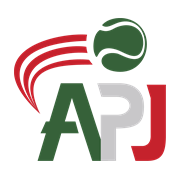
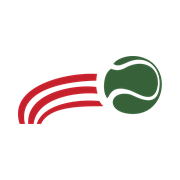
Usar isotipo en la barra: el lockup completo no se lee a 30px
El logotipo oficial es un lockup de proporcion casi cuadrada (809x761) que
mete trazos, pelota y la palabra APJ. En la cabecera se mostraba a 32px de
alto, asi que las letras quedaban de ~14px y se empastaban; la P, en gris
claro, casi desaparecia sobre blanco. Ademas repetia el nombre que ya pone
el texto de al lado.

Se agrega img/apj_isotipo.png: la pelota y los trazos de velocidad,
recortados del archivo oficial sin redibujar nada. Va en la barra de todas
las paginas y en el panel admin, acompanado del texto "APJ Padel". La marca
completa se queda donde tiene sitio para lucirse: hero, portadas de
documentos, pagina de descarga y las tarjetas de torneo sin flyer.

El favicon y el icono de pantalla de inicio tambien pasan al isotipo, por el
mismo motivo de legibilidad a tamano pequeno.

Ajustes de barra en pantallas estrechas: por debajo de 440px se oculta el
nombre y se encogen icono, boton de tema y botones de sesion. Se anade
white-space:nowrap a los botones porque "Iniciar Sesion" se partia en dos
lineas. Verificado sin desbordamiento a 360 y 390px con la sesion cerrada,
que es el caso mas apretado.

diff --git a/css/styles.css b/css/styles.css
@@ -315,6 +315,9 @@ a:hover {
   color: var(--text);
 }
 
+/* En la barra va el isotipo (pelota + trazos), no el lockup completo: a 30px
+   la palabra "APJ" del logotipo se vuelve ilegible y ademas repetiria el
+   nombre que ya pone el texto de al lado. */
 .brand-mark,
 .tournaments-logo-icon,
 .profile-logo-icon,
@@ -324,7 +327,7 @@ a:hover {
   align-items: center;
   justify-content: center;
   width: auto;
-  height: 38px;
+  height: 30px;
   background: none;
   border: 0;
   font-size: 0;
@@ -853,6 +856,7 @@ section[id],
   font-size: 15px;
   font-weight: 600;
   letter-spacing: -0.012em;
+  white-space: nowrap;
   cursor: pointer;
   text-decoration: none;
   transition: transform var(--transition), box-shadow var(--transition),
@@ -4042,13 +4046,11 @@ body.admin-page textarea {
   .tournaments-logo-icon,
   .profile-logo-icon,
   .registration-logo-icon {
-    height: 32px;
+    height: 27px;
   }
 
-  .brand-text,
-  .tournaments-logo-text,
-  .profile-logo-text,
-  .registration-logo-text {
+  /* La segunda linea sobra en pantallas estrechas */
+  .brand-sub {
     display: none;
   }
 
@@ -4153,6 +4155,43 @@ body.admin-page textarea {
 
   .modal-overlay {
     padding: 16px;
+  }
+}
+
+@media (max-width: 440px) {
+  /* Sin sesion iniciada la barra lleva dos botones: el nombre no cabe y el
+     resto tiene que encogerse para que nada se parta en dos lineas. */
+  .brand-text,
+  .tournaments-logo-text,
+  .profile-logo-text,
+  .registration-logo-text {
+    display: none;
+  }
+
+  .brand-mark,
+  .tournaments-logo-icon,
+  .profile-logo-icon,
+  .registration-logo-icon {
+    height: 24px;
+  }
+
+  .header-nav {
+    gap: 6px;
+  }
+
+  .header-nav .btn {
+    padding: 7px 12px;
+    font-size: 12.5px;
+  }
+
+  .theme-toggle {
+    width: 32px;
+    height: 32px;
+  }
+
+  .theme-toggle svg {
+    width: 15px;
+    height: 15px;
   }
 }
 

diff --git a/js/admin-shell.js b/js/admin-shell.js
@@ -150,7 +150,7 @@ const APJAdminShell = (function () {
             <svg width="20" height="20" viewBox="0 0 24 24" fill="none" stroke="currentColor" stroke-width="2" stroke-linecap="round" stroke-linejoin="round"><path d="M3 12h18M3 6h18M3 18h18"/></svg>
           </button>
           <a href="/admin/" class="admin-header-brand">
-            <div class="admin-header-brand-icon"><img src="/img/apj_logo.png" alt="APJ"></div>
+            <div class="admin-header-brand-icon"><img src="/img/apj_isotipo.png" alt="APJ"></div>
             <span class="admin-header-brand-text">Admin</span>
           </a>
         </div>

diff --git a/torneos/detalle/index.html b/torneos/detalle/index.html
@@ -35,7 +35,7 @@
 <header class="tournaments-header">
   <div class="tournaments-header-inner">
     <a href="/torneos/" class="tournaments-logo">
-      <div class="tournaments-logo-icon"><img src="/img/apj_logo.png" alt="Asociación de Pádel Jalisco"></div>
+      <div class="tournaments-logo-icon"><img src="/img/apj_isotipo.png" alt="Asociación de Pádel Jalisco"></div>
       <span class="tournaments-logo-text">APJ Pádel<span class="brand-sub">Jalisco · México</span></span>
     </a>
     <div class="header-nav">

diff --git a/inscripcion/index.html b/inscripcion/index.html
@@ -20,7 +20,7 @@
 <header class="registration-header">
   <div class="registration-header-inner">
     <a href="/" class="registration-logo">
-      <div class="registration-logo-icon"><img src="/img/apj_logo.png" alt="Asociación de Pádel Jalisco"></div>
+      <div class="registration-logo-icon"><img src="/img/apj_isotipo.png" alt="Asociación de Pádel Jalisco"></div>
       <span class="registration-logo-text">APJ Pádel<span class="brand-sub">Jalisco · México</span></span>
     </a>
     <div class="header-nav">

diff --git a/torneos/index.html b/torneos/index.html
@@ -19,7 +19,7 @@
 <header class="tournaments-header">
   <div class="tournaments-header-inner">
     <a href="/" class="tournaments-logo">
-      <div class="tournaments-logo-icon"><img src="/img/apj_logo.png" alt="Asociación de Pádel Jalisco"></div>
+      <div class="tournaments-logo-icon"><img src="/img/apj_isotipo.png" alt="Asociación de Pádel Jalisco"></div>
       <span class="tournaments-logo-text">APJ Pádel<span class="brand-sub">Jalisco · México</span></span>
     </a>
     <div class="header-nav">

diff --git a/apps/index.html b/apps/index.html
@@ -137,7 +137,7 @@
 <header class="tournaments-header">
   <div class="tournaments-header-inner">
     <a href="/" class="tournaments-logo">
-      <div class="tournaments-logo-icon"><img src="/img/apj_logo.png" alt="Asociación de Pádel Jalisco"></div>
+      <div class="tournaments-logo-icon"><img src="/img/apj_isotipo.png" alt="Asociación de Pádel Jalisco"></div>
       <span class="tournaments-logo-text">APJ Pádel<span class="brand-sub">Jalisco · México</span></span>
     </a>
   </div>

diff --git a/eliminarcuenta/index.html b/eliminarcuenta/index.html
@@ -284,7 +284,7 @@
 <header class="profile-header">
   <div class="profile-header-inner">
     <a href="/" class="profile-logo">
-      <div class="profile-logo-icon"><img src="/img/apj_logo.png" alt="Asociación de Pádel Jalisco"></div>
+      <div class="profile-logo-icon"><img src="/img/apj_isotipo.png" alt="Asociación de Pádel Jalisco"></div>
       <span class="profile-logo-text">APJ Pádel<span class="brand-sub">Jalisco · México</span></span>
     </a>
     <div class="header-nav">

diff --git a/perfil/index.html b/perfil/index.html
@@ -19,7 +19,7 @@
 <header class="profile-header">
   <div class="profile-header-inner">
     <a href="/" class="profile-logo">
-      <div class="profile-logo-icon"><img src="/img/apj_logo.png" alt="Asociación de Pádel Jalisco"></div>
+      <div class="profile-logo-icon"><img src="/img/apj_isotipo.png" alt="Asociación de Pádel Jalisco"></div>
       <span class="profile-logo-text">APJ Pádel<span class="brand-sub">Jalisco · México</span></span>
     </a>
     <div class="header-nav">

diff --git a/index.html b/index.html
@@ -21,7 +21,7 @@
 <header class="site-header">
   <div class="site-header-inner">
     <a href="/" class="brand">
-      <span class="brand-mark"><img src="/img/apj_logo.png" alt="Asociación de Pádel Jalisco"></span>
+      <span class="brand-mark"><img src="/img/apj_isotipo.png" alt="Asociación de Pádel Jalisco"></span>
       <span class="brand-text">
         APJ Pádel
         <span class="brand-sub">Jalisco · México</span>

diff --git a/reglamento/index.html b/reglamento/index.html
@@ -361,7 +361,7 @@
         Inicio
       </a>
       <a href="/" class="brand">
-        <span class="brand-mark"><img src="/img/apj_logo.png" alt="Asociación de Pádel Jalisco"></span>
+        <span class="brand-mark"><img src="/img/apj_isotipo.png" alt="Asociación de Pádel Jalisco"></span>
       </a>
       <span class="reglamento-header-title">Reglamento Oficial APJ</span>
     </div>
